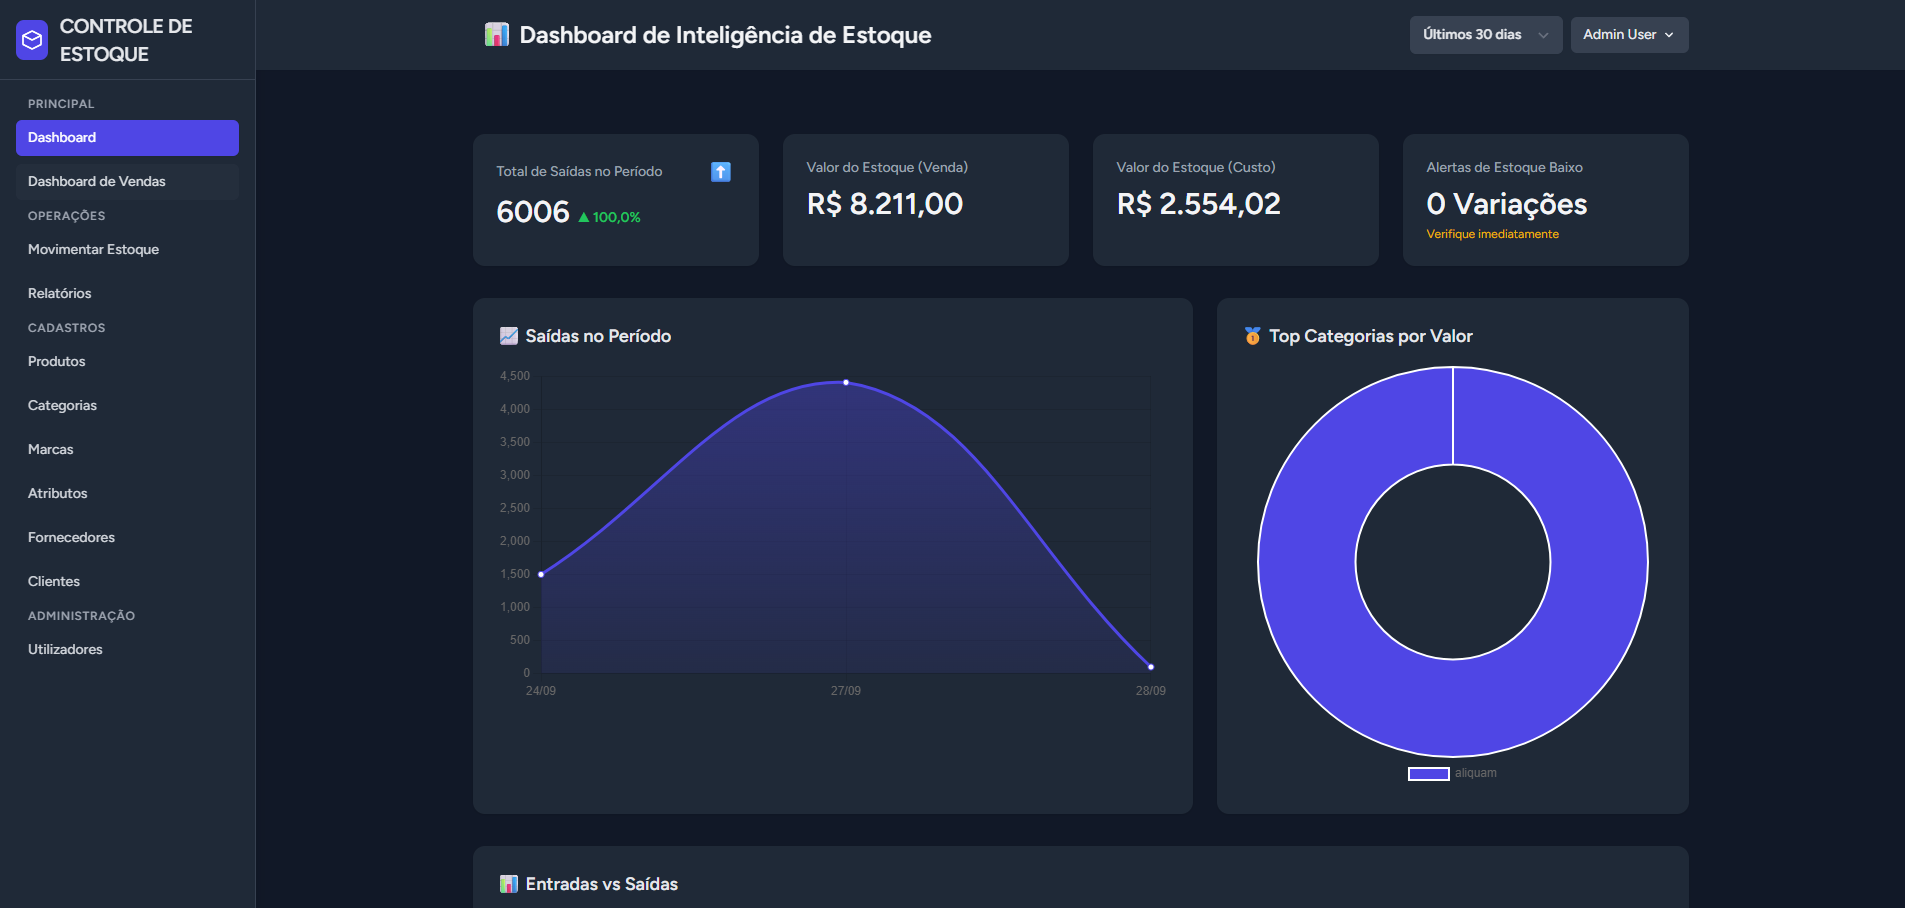
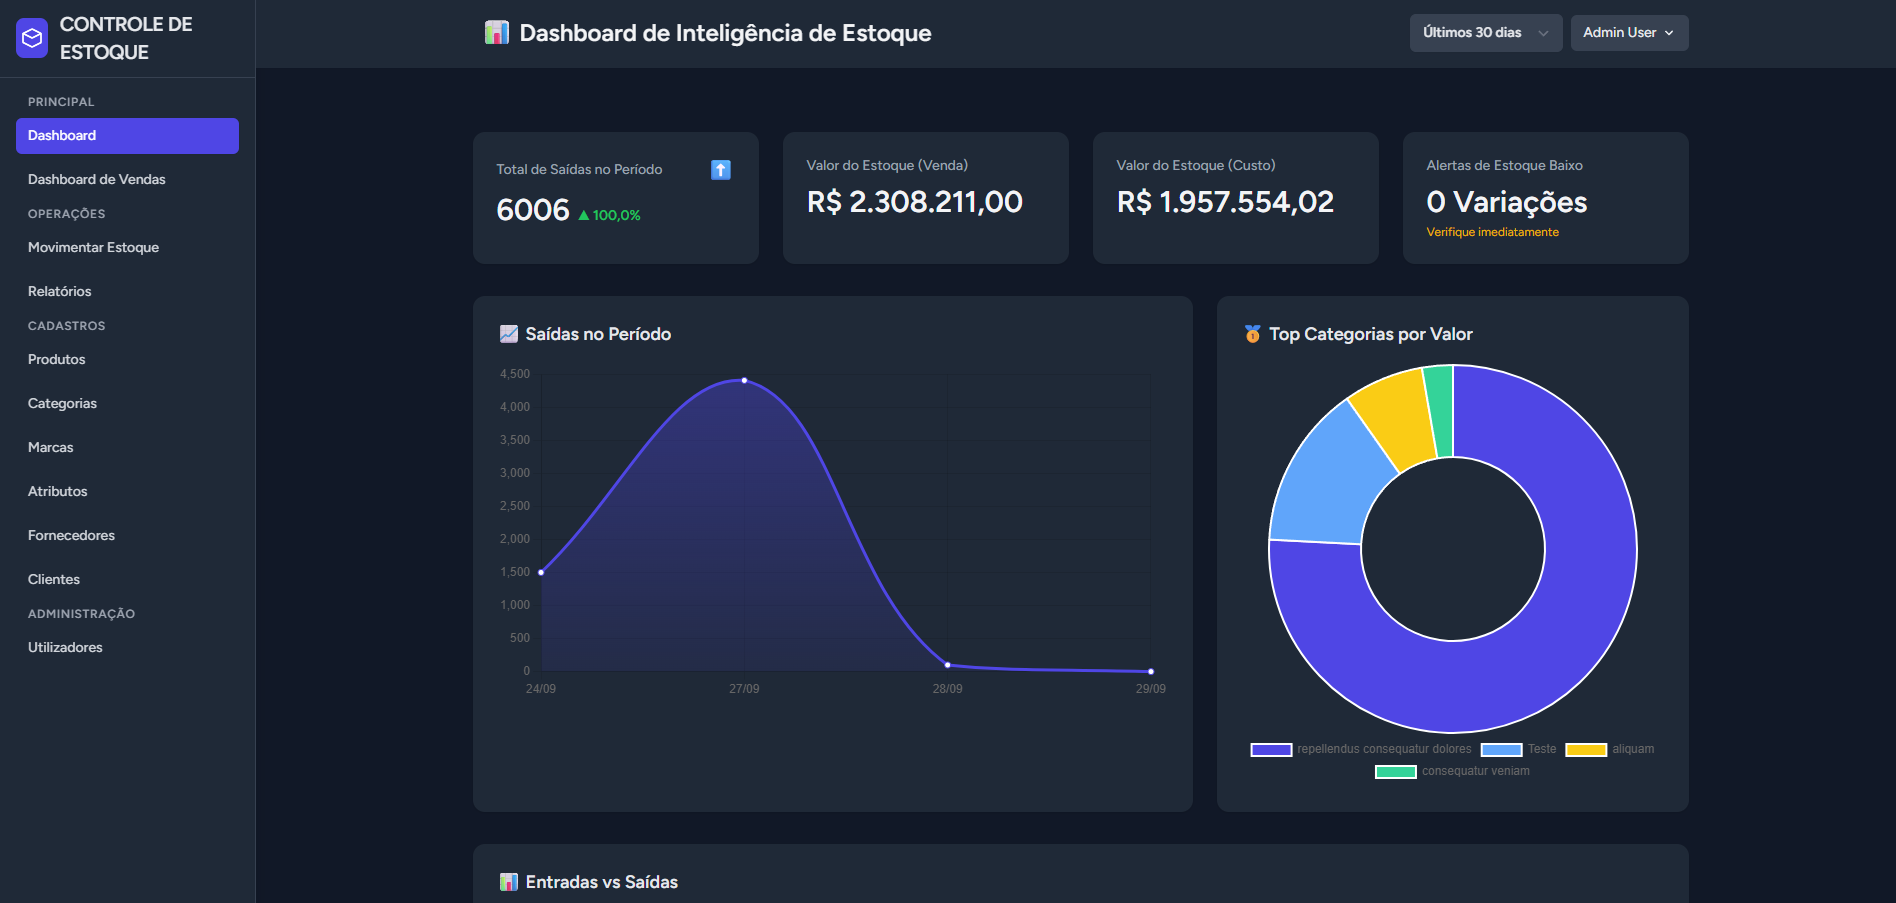
Refactor: Melhora o cálculo de tendência no Dashboard e ajusta a formatação dos rótulos

diff --git a/app/Http/Controllers/DashboardController.php b/app/Http/Controllers/DashboardController.php
@@ -67,10 +67,17 @@ class DashboardController extends Controller
         });
 
         // --- Alinhamento e Cálculo de Tendência ---
-        $labels = $saidasPorDia->pluck('data')->merge($entradasPorDia->pluck('data'))->unique()->sort();
+        $labels = $saidasPorDia->pluck('data')
+            ->merge($entradasPorDia->pluck('data'))
+            ->unique()
+            ->sort()
+            ->values();
+
         $dataSaidas = $labels->map(fn ($label) => $saidasPorDia->firstWhere('data', $label)->total ?? 0);
+
         $dataEntradas = $labels->map(fn ($label) => $entradasPorDia->firstWhere('data', $label)->total ?? 0);
-        $labelsFormatados = $labels->map(fn ($date) => Carbon::parse($date)->format('d/m'))->values()->all();
+
+        $labelsFormatados = $labels->map(fn ($date) => Carbon::parse($date)->format('d/m'));
         
         $totalSaidasAtual = $dataSaidas->sum();
         $tendenciaSaidas = Cache::remember('dashboard_tendencia_saidas' . $cacheKeyPeriodo, now()->addMinutes(10), function () use ($startDate, $totalSaidasAtual) {
